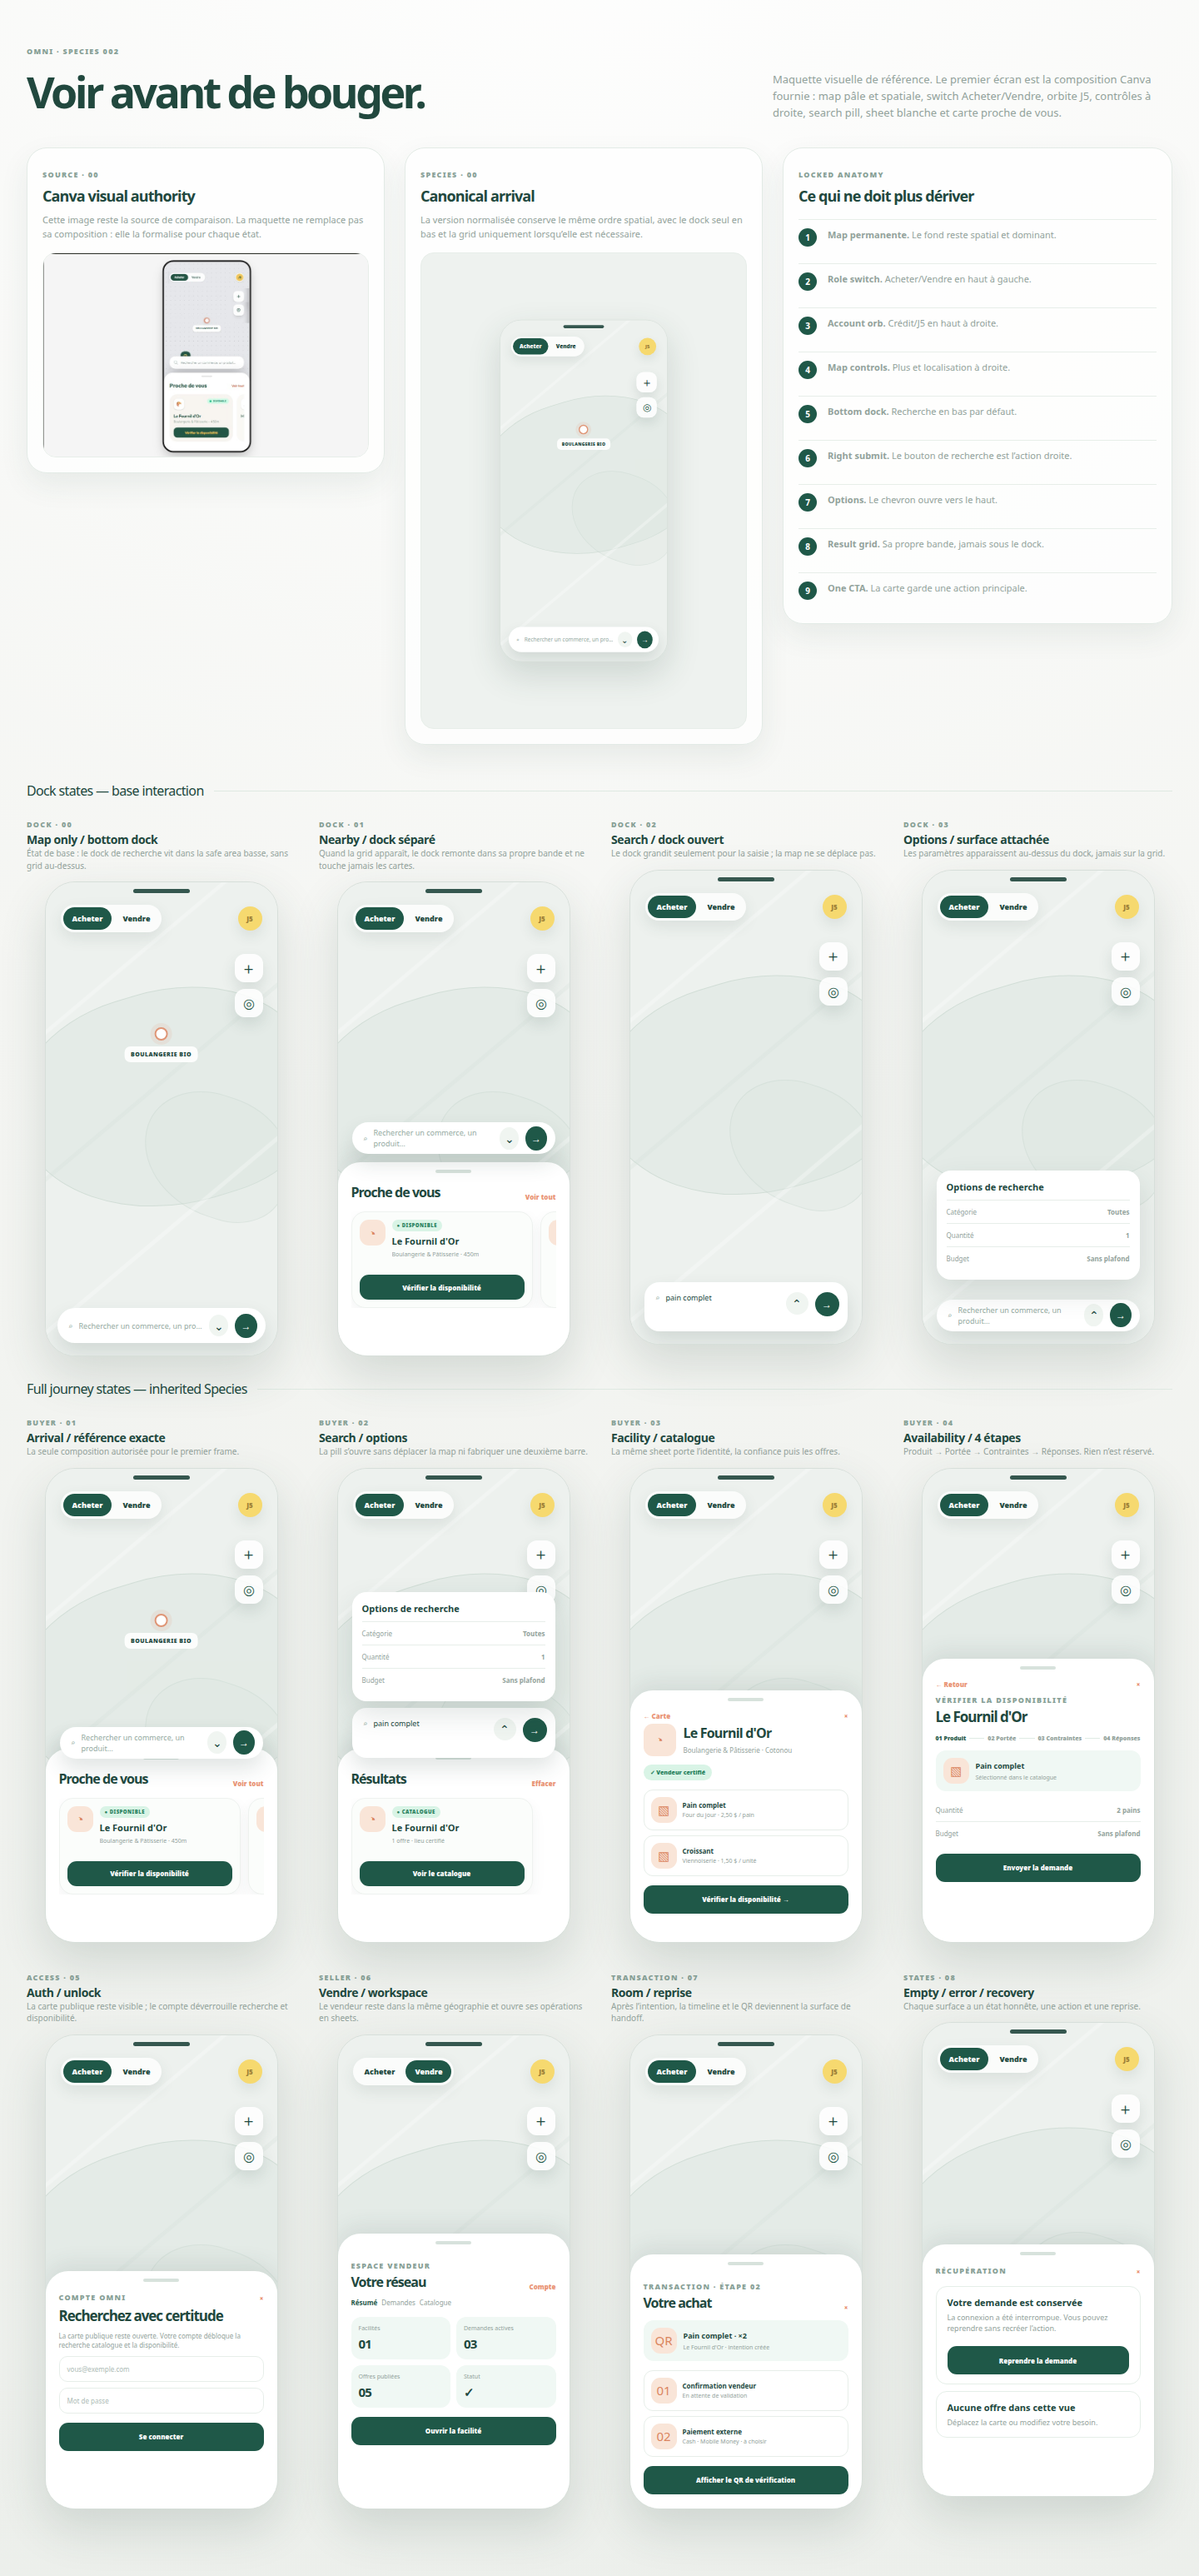
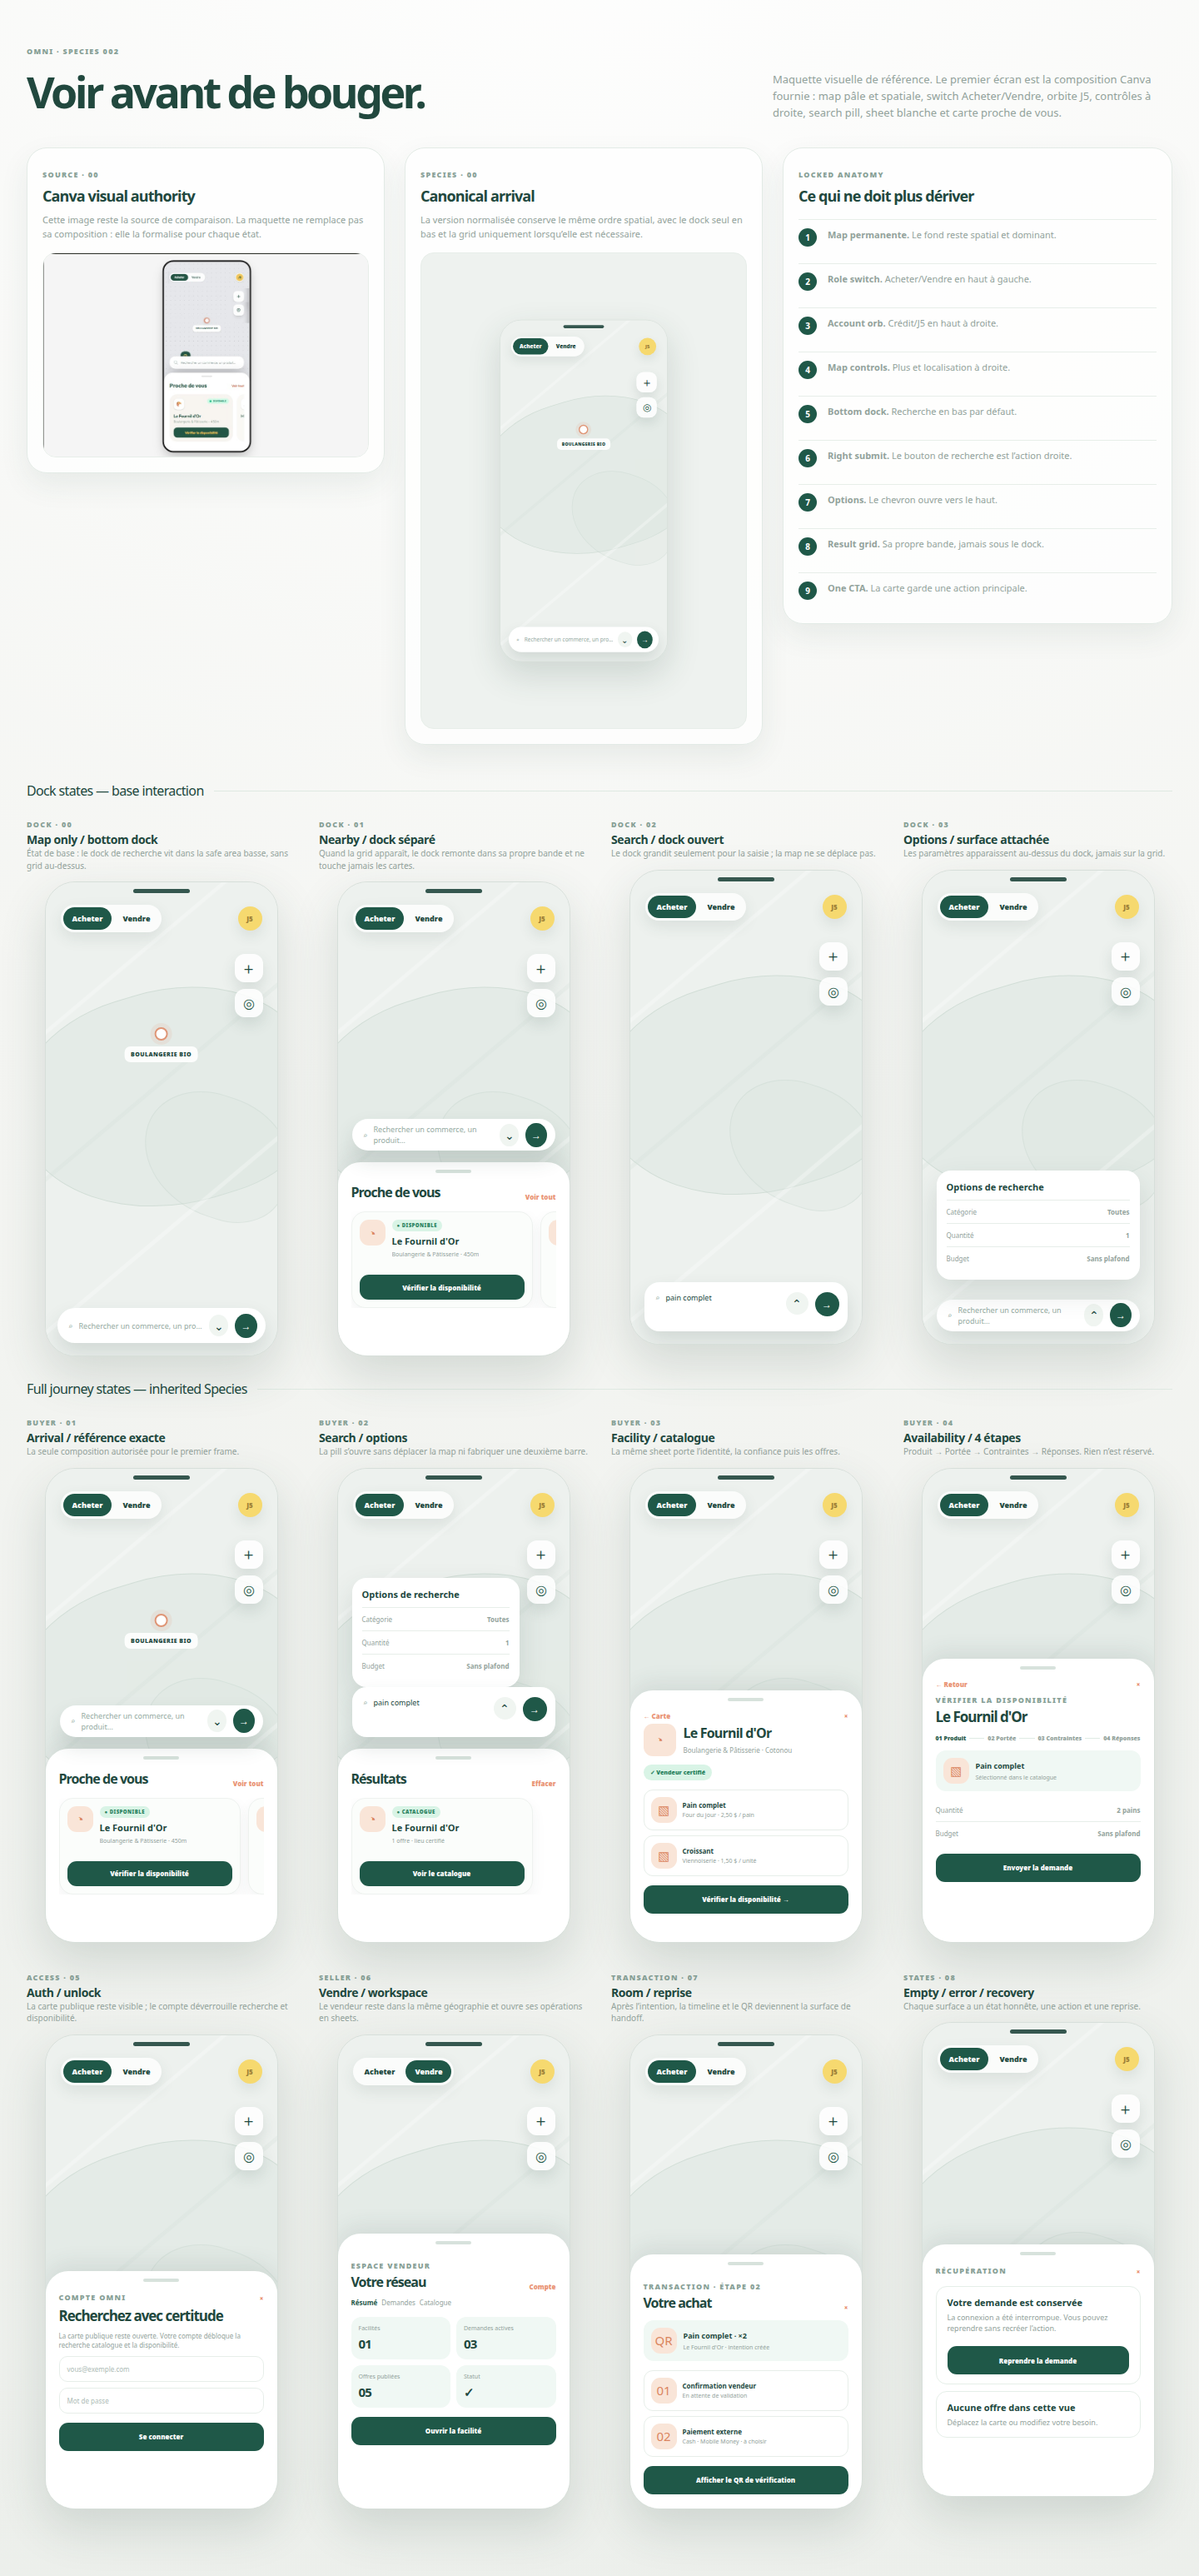
docs(v2): enforce maquette overlay separation

diff --git a/docs/maquette/omni-species-maquette.html b/docs/maquette/omni-species-maquette.html
@@ -57,7 +57,7 @@
     .sheet-title { display:flex; justify-content:space-between; align-items:end; gap:12px; }
     .sheet-title h3 { margin:0; color:var(--ink); font-size:16px; letter-spacing:-.06em; }
     .sheet-title a { color:var(--coral); font-size:8px; font-weight:900; }
-    .rail { display:flex; gap:9px; overflow:hidden; margin-top:12px; }
+    .rail { display:flex; min-width:0; gap:9px; overflow:hidden; margin-top:12px; }
     .card { flex:0 0 218px; padding:9px; border:1px solid #eef2ef; border-radius:17px; background:#fbfdfb; box-shadow:0 7px 17px rgba(45,72,65,.06); }
     .card-head { display:flex; align-items:start; gap:8px; min-height:66px; }
     .card-icon { display:grid; width:31px; height:31px; place-items:center; flex:none; border-radius:11px; color:#db855f; background:var(--peach); font-size:15px; }
@@ -109,8 +109,12 @@
     .dock-phone .search .search-submit { display:grid; width:29px; height:29px; place-items:center; margin-left:auto; border-radius:50%; color:#fff; background:var(--forest); font-size:12px; font-weight:900; }
     .dock-phone .search .chev { width:26px; height:26px; margin-left:0; }
     .dock-phone .search .dock-label { overflow:hidden; text-overflow:ellipsis; white-space:nowrap; }
-    .separated-phone .search { bottom:242px; }
-    .separated-phone .sheet { min-height:232px; }
+    .separated-phone { display:grid; grid-template-rows:38px 14px 232px; align-content:end; width:280px; min-width:0; padding:0 17px; }
+    .separated-phone .search { position:relative; right:auto; bottom:auto; left:auto; grid-row:1; width:auto; min-width:0; min-height:38px; z-index:7; }
+    .separated-phone .sheet { position:relative; right:auto; bottom:auto; left:auto; grid-row:3; width:auto; min-width:0; min-height:232px; margin:0 -17px; z-index:5; }
+    .expanded.separated-phone { grid-template-rows:60px 14px 232px; }
+    .expanded.separated-phone .search { position:relative; grid-row:1; min-width:0; min-height:60px; border-radius:17px; align-items:start; padding-top:11px; }
+    .expanded.separated-phone .options { right:60px; bottom:306px; }
     .separated-phone .search { z-index:7; }
     .expanded-dock .search { bottom:15px; min-height:59px; border-radius:18px; align-items:start; padding-top:11px; }
     .expanded-dock .search .dock-label { color:var(--ink); }
@@ -144,8 +148,8 @@
     </section>
     <div class="section-label"><span>Full journey states — inherited Species</span></div>
     <section class="grid">
-      <article class="artboard"><div><span class="eyebrow">Buyer · 01</span><h2>Arrival / référence exacte</h2><p>La seule composition autorisée pour le premier frame.</p></div><div class="phone"><div class="map"><div class="map-land"></div><div class="map-land two"></div></div><div class="top"><div class="roles"><span class="active">Acheter</span><span>Vendre</span></div><div class="orb">J5</div></div><div class="controls"><div class="control">＋</div><div class="control loc">◎</div></div><div class="marker"><div class="marker-dot"></div><div class="marker-label">BOULANGERIE BIO</div></div><div class="search"><span>⌕</span><span>Rechercher un commerce, un produit…</span><span class="chev">⌄</span><span class="search-submit">→</span></div><div class="sheet"><div class="handle"></div><div class="sheet-title"><h3>Proche de vous</h3><a>Voir tout</a></div><div class="rail"><div class="card"><div class="card-head"><div class="card-icon">◔</div><div class="card-copy"><span class="status">● DISPONIBLE</span><strong>Le Fournil d'Or</strong><small>Boulangerie &amp; Pâtisserie · 450m</small></div></div><div class="cta">Vérifier la disponibilité</div></div><div class="card second"><div class="card-head"><div class="card-icon">M</div><div class="card-copy"><span class="status">● DISPONIBLE</span><strong>Marché local</strong><small>Produits frais · 800m</small></div></div></div></div></div></div></article>
-      <article class="artboard"><div><span class="eyebrow">Buyer · 02</span><h2>Search / options</h2><p>La pill s’ouvre sans déplacer la map ni fabriquer une deuxième barre.</p></div><div class="phone expanded"><div class="map"><div class="map-land"></div><div class="map-land two"></div></div><div class="top"><div class="roles"><span class="active">Acheter</span><span>Vendre</span></div><div class="orb">J5</div></div><div class="controls"><div class="control">＋</div><div class="control loc">◎</div></div><div class="marker"><div class="marker-dot"></div><div class="marker-label">BOULANGERIE BIO</div></div><div class="options"><h4>Options de recherche</h4><div class="filter"><span>Catégorie</span><b>Toutes</b></div><div class="filter"><span>Quantité</span><b>1</b></div><div class="filter"><span>Budget</span><b>Sans plafond</b></div></div><div class="search"><span>⌕</span><span class="search-text">pain complet</span><span class="chev">⌃</span><span class="search-submit">→</span></div><div class="sheet"><div class="handle"></div><div class="sheet-title"><h3>Résultats</h3><a>Effacer</a></div><div class="rail"><div class="card"><div class="card-head"><div class="card-icon">◔</div><div class="card-copy"><span class="status">● CATALOGUE</span><strong>Le Fournil d'Or</strong><small>1 offre · lieu certifié</small></div></div><div class="cta">Voir le catalogue</div></div></div></div></div></article>
+      <article class="artboard"><div><span class="eyebrow">Buyer · 01</span><h2>Arrival / référence exacte</h2><p>La seule composition autorisée pour le premier frame.</p></div><div class="phone separated-phone"><div class="map"><div class="map-land"></div><div class="map-land two"></div></div><div class="top"><div class="roles"><span class="active">Acheter</span><span>Vendre</span></div><div class="orb">J5</div></div><div class="controls"><div class="control">＋</div><div class="control loc">◎</div></div><div class="marker"><div class="marker-dot"></div><div class="marker-label">BOULANGERIE BIO</div></div><div class="search"><span>⌕</span><span>Rechercher un commerce, un produit…</span><span class="chev">⌄</span><span class="search-submit">→</span></div><div class="sheet"><div class="handle"></div><div class="sheet-title"><h3>Proche de vous</h3><a>Voir tout</a></div><div class="rail"><div class="card"><div class="card-head"><div class="card-icon">◔</div><div class="card-copy"><span class="status">● DISPONIBLE</span><strong>Le Fournil d'Or</strong><small>Boulangerie &amp; Pâtisserie · 450m</small></div></div><div class="cta">Vérifier la disponibilité</div></div><div class="card second"><div class="card-head"><div class="card-icon">M</div><div class="card-copy"><span class="status">● DISPONIBLE</span><strong>Marché local</strong><small>Produits frais · 800m</small></div></div></div></div></div></div></article>
+      <article class="artboard"><div><span class="eyebrow">Buyer · 02</span><h2>Search / options</h2><p>La pill s’ouvre sans déplacer la map ni fabriquer une deuxième barre.</p></div><div class="phone expanded separated-phone"><div class="map"><div class="map-land"></div><div class="map-land two"></div></div><div class="top"><div class="roles"><span class="active">Acheter</span><span>Vendre</span></div><div class="orb">J5</div></div><div class="controls"><div class="control">＋</div><div class="control loc">◎</div></div><div class="marker"><div class="marker-dot"></div><div class="marker-label">BOULANGERIE BIO</div></div><div class="options"><h4>Options de recherche</h4><div class="filter"><span>Catégorie</span><b>Toutes</b></div><div class="filter"><span>Quantité</span><b>1</b></div><div class="filter"><span>Budget</span><b>Sans plafond</b></div></div><div class="search"><span>⌕</span><span class="search-text">pain complet</span><span class="chev">⌃</span><span class="search-submit">→</span></div><div class="sheet"><div class="handle"></div><div class="sheet-title"><h3>Résultats</h3><a>Effacer</a></div><div class="rail"><div class="card"><div class="card-head"><div class="card-icon">◔</div><div class="card-copy"><span class="status">● CATALOGUE</span><strong>Le Fournil d'Or</strong><small>1 offre · lieu certifié</small></div></div><div class="cta">Voir le catalogue</div></div></div></div></div></article>
       <article class="artboard"><div><span class="eyebrow">Buyer · 03</span><h2>Facility / catalogue</h2><p>La même sheet porte l’identité, la confiance puis les offres.</p></div><div class="phone detail"><div class="map"><div class="map-land"></div><div class="map-land two"></div></div><div class="top"><div class="roles"><span class="active">Acheter</span><span>Vendre</span></div><div class="orb">J5</div></div><div class="controls"><div class="control">＋</div><div class="control loc">◎</div></div><div class="sheet"><div class="handle"></div><div class="sheet-title"><a>← Carte</a><a>×</a></div><div class="detail-head"><div class="card-icon">◔</div><div><strong>Le Fournil d'Or</strong><small>Boulangerie &amp; Pâtisserie · Cotonou</small></div></div><span class="trust">✓ Vendeur certifié</span><div class="catalogue"><div class="catalogue-row"><div class="card-icon">▧</div><span><b>Pain complet</b><small>Four du jour · 2,50 $ / pain</small></span></div><div class="catalogue-row"><div class="card-icon">▧</div><span><b>Croissant</b><small>Viennoiserie · 1,50 $ / unité</small></span></div></div><div class="cta">Vérifier la disponibilité →</div></div></div></article>
       <article class="artboard"><div><span class="eyebrow">Buyer · 04</span><h2>Availability / 4 étapes</h2><p>Produit → Portée → Contraintes → Réponses. Rien n’est réservé.</p></div><div class="phone availability"><div class="map"><div class="map-land"></div><div class="map-land two"></div></div><div class="top"><div class="roles"><span class="active">Acheter</span><span>Vendre</span></div><div class="orb">J5</div></div><div class="controls"><div class="control">＋</div><div class="control loc">◎</div></div><div class="sheet"><div class="handle"></div><div class="sheet-title"><a>← Retour</a><a>×</a></div><span class="eyebrow">Vérifier la disponibilité</span><h3 style="margin:0;font-size:17px;letter-spacing:-.06em">Le Fournil d'Or</h3><div class="stepper"><b>01 Produit</b><i></i><span>02 Portée</span><i></i><span>03 Contraintes</span><i></i><span>04 Réponses</span></div><div class="selected-product"><div class="card-icon">▧</div><div><b>Pain complet</b><small>Sélectionné dans le catalogue</small></div></div><div class="filter" style="margin-top:9px;border-top:0"><span>Quantité</span><b>2 pains</b></div><div class="filter"><span>Budget</span><b>Sans plafond</b></div><div class="cta">Envoyer la demande</div></div></div></article>
       <article class="artboard"><div><span class="eyebrow">Access · 05</span><h2>Auth / unlock</h2><p>La carte publique reste visible ; le compte déverrouille recherche et disponibilité.</p></div><div class="phone auth"><div class="map"><div class="map-land"></div><div class="map-land two"></div></div><div class="top"><div class="roles"><span class="active">Acheter</span><span>Vendre</span></div><div class="orb">J5</div></div><div class="controls"><div class="control">＋</div><div class="control loc">◎</div></div><div class="sheet"><div class="handle"></div><div class="sheet-title"><span class="eyebrow">Compte Omni</span><a>×</a></div><h3>Recherchez avec certitude</h3><p style="margin:7px 0;color:var(--muted);font-size:8px;line-height:1.45">La carte publique reste ouverte. Votre compte débloque la recherche catalogue et la disponibilité.</p><div class="input">vous@exemple.com</div><div class="input">Mot de passe</div><div class="cta">Se connecter</div></div></div></article>

diff --git a/docs/maquette/omni-species-dock-review.md b/docs/maquette/omni-species-dock-review.md
@@ -12,3 +12,7 @@ This is a visual review of the static maquette, not proof of the application cod
 ## Final spacing correction
 
 The regenerated render was inspected after changing `.separated-phone .search` from the overlapping position to `bottom: 242px` and removing the pseudo-surface that visually occupied the same zone as the dock. In the nearby-result frame, the dock now sits above the sheet with a visible separation; the grid/sheet begins below its own boundary. The map-only, focused and Options states remain separate and do not introduce a result surface beneath the dock.
+
+## Final rendered inspection
+
+The final render shows the result-state dock in its own narrow band above the `Proche de vous` sheet, with a visible gap rather than a shared/overlapping edge. The map-only dock remains at the bottom. The Search/Options journey now places the Options surface in the open central corridor, leaving the upper role navigation and right-side map controls unobstructed. The geometry proof passed at 320, 375, 768 and 1280 pixels.
